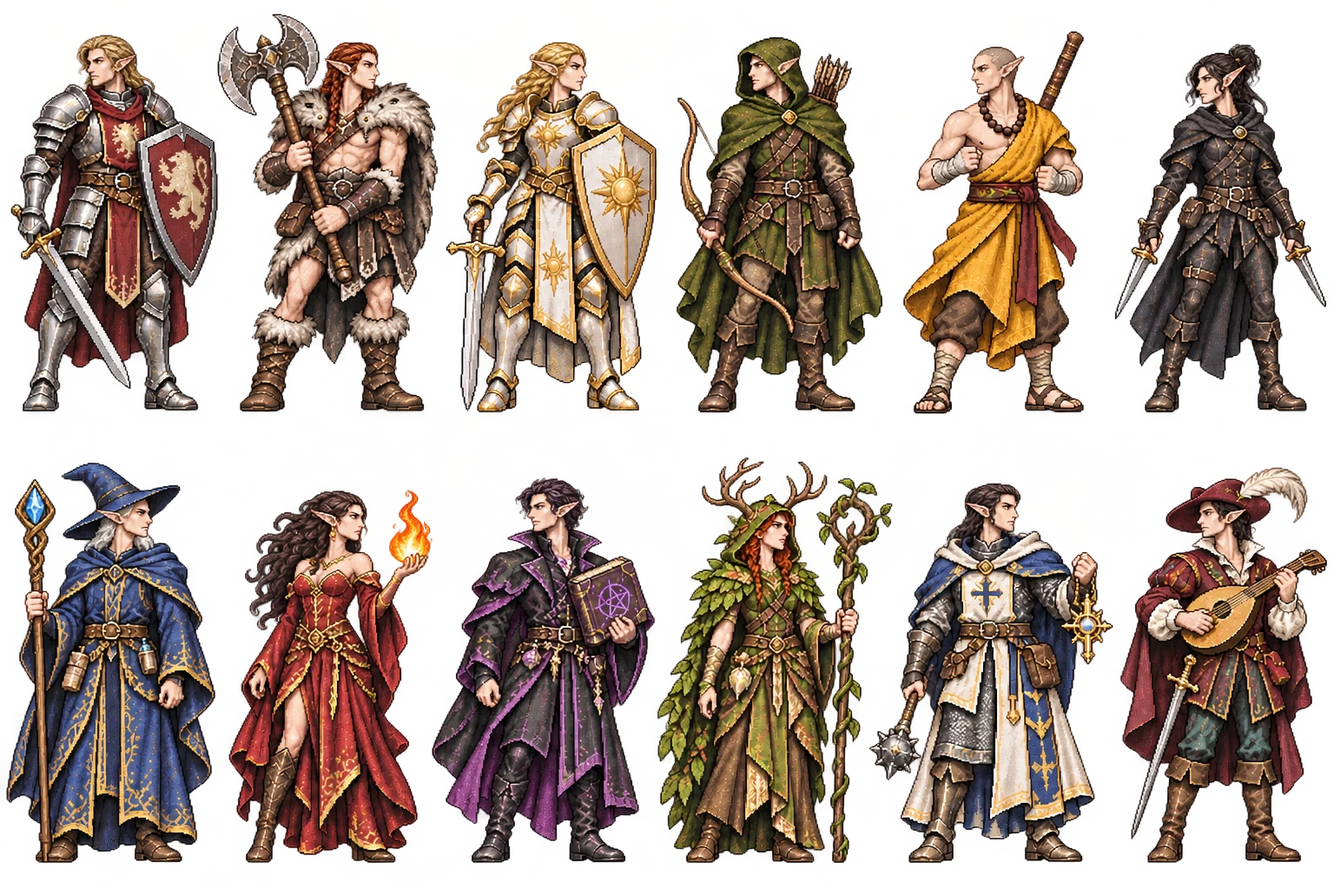
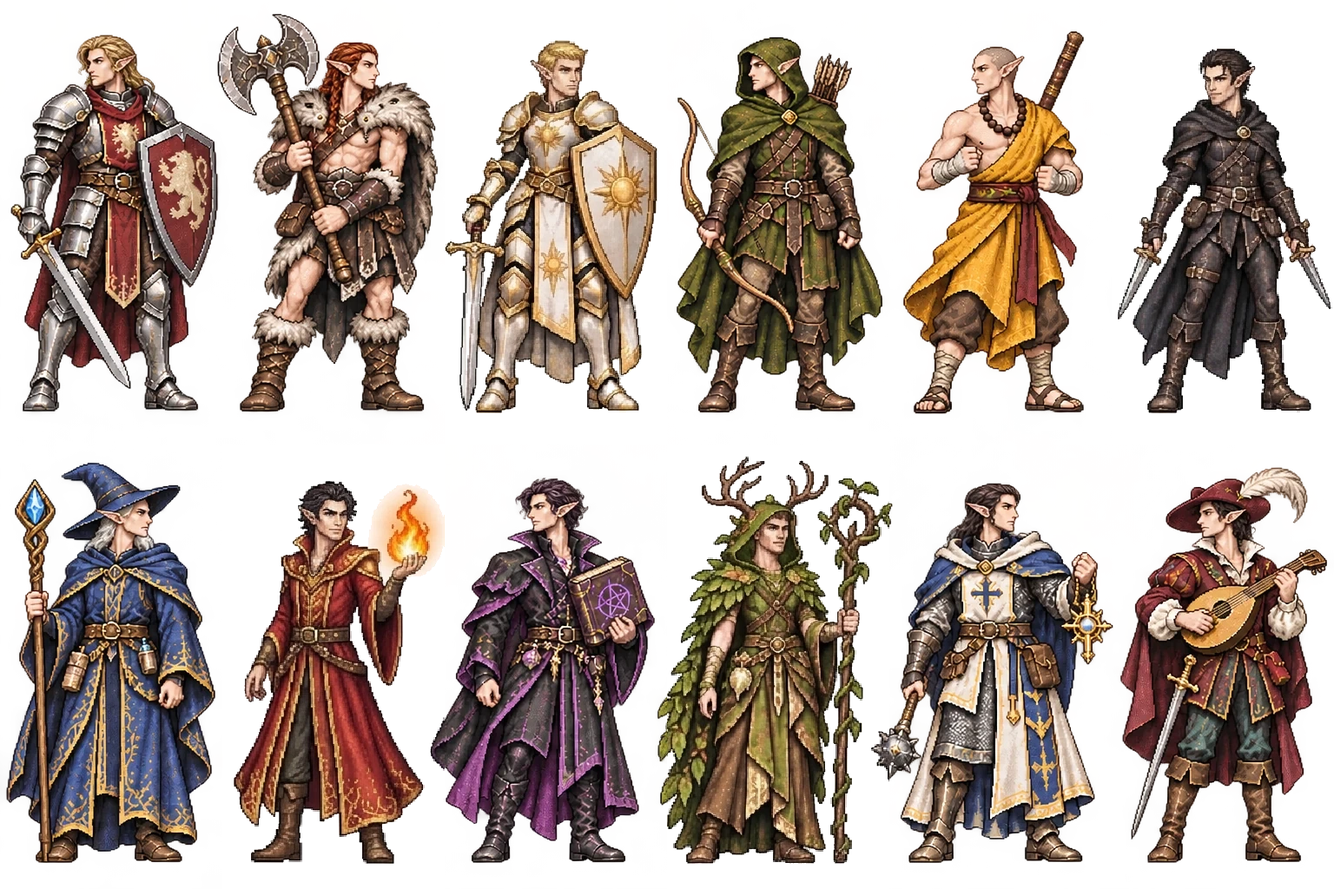
feat(segrete): all-male party sprites and XP boost potions in shop and drops

diff --git a/functions/segreteBundle.js b/functions/segreteBundle.js
@@ -53,6 +53,7 @@ __export(segreteServer_exports, {
   currentWeekKey: () => currentWeekKey,
   dailyLimit: () => dailyLimit,
   diffOf: () => diffOf,
+  drinkXpPotion: () => drinkXpPotion,
   flee: () => flee,
   giftsToday: () => giftsToday,
   hasRace: () => hasRace,
@@ -330,7 +331,7 @@ var KITS = {
     pool: [
       { id: "punizione", useWeapon: true, name: "Punizione Divina", icon: "\u26A1", kind: "weapon", dice: "1d8", dmg: "slashing", rider: "2d8", riderDmg: "radiant", min: 1, uses: 2, riderGrow: true, info: "danno normale dell'arma + danno radioso" },
       { id: "benedizione", name: "Benedizione", icon: "\u2728", kind: "buff", buff: "adv", turns: 2, allParty: true, min: 1, uses: 1 },
-      { id: "cura_p", name: "Cura Ferite", icon: "\u{1F49A}", kind: "heal", healPool: true, min: 3, info: "Cura a scelta \xB7 riserva condivisa" },
+      { id: "cura_p", name: "Cura Ferite", icon: "\u{1F49A}", kind: "heal", dice: "1d8", plusMod: 2, min: 3, uses: 2, info: "Cura 1d8 + 2\xD7CAR" },
       { id: "aura", name: "Aura di Protezione", icon: "\u{1F31F}", kind: "buff", buff: "ac", value: 2, turns: 3, allParty: true, min: 6, uses: 1 },
       { id: "accecante", useWeapon: true, name: "Punizione Accecante", icon: "\u2600", kind: "weapon", dice: "1d8", dmg: "slashing", rider: "3d8", riderDmg: "radiant", riderDis: 2, min: 9, uses: 1, info: "e il nemico a svantaggio" },
       { id: "sacra", name: "Arma Sacra", icon: "\u{1F5E1}", kind: "buff", buff: "dmg", value: 5, turns: 3, self: true, min: 12, uses: 1 }
@@ -944,6 +945,9 @@ var BASE_ITEMS = {
   panacea: { name: "Panacea", icon: "\u2728", kind: "panacea", price: 150, daily: 1, rarity: "rare", desc: "Te o un alleato: toglie tutti gli stati, anche \u{1F5FF}" },
   pelle_pietra: { name: "Pozione di Pelle di Pietra", icon: "\u{1FAA8}", kind: "buff", buff: "ac", value: 2, turns: 3, price: 90, daily: 1, rarity: "uncommon", desc: "\u{1F6E1} +2 CA \xB7 3 round \xB7 te o un alleato" },
   eroismo: { name: "Pozione dell'Eroismo", icon: "\u{1F9B8}", kind: "buff", buff: "adv", turns: 2, price: 100, daily: 1, rarity: "uncommon", desc: "\u{1F3AF} vantaggio \xB7 2 round \xB7 te o un alleato" },
+  pozione_exp_5: { name: "Pozione della Saggezza (+5% PE)", icon: "\u{1F4D8}", kind: "xp_boost", xpPct: 5, xpRuns: 2, price: 60, daily: 2, rarity: "common", desc: "\u2B50 +5% PE per 2 dungeon vinti" },
+  pozione_exp_10: { name: "Pozione dell'Esperienza (+10% PE)", icon: "\u{1F4D7}", kind: "xp_boost", xpPct: 10, xpRuns: 2, price: 130, daily: 1, rarity: "uncommon", desc: "\u2B50 +10% PE per 2 dungeon vinti" },
+  pozione_exp_20: { name: "Elisir del Sapere (+20% PE)", icon: "\u{1F4D9}", kind: "xp_boost", xpPct: 20, xpRuns: 2, price: 250, daily: 1, rarity: "rare", desc: "\u2B50 +20% PE per 2 dungeon vinti" },
   fuoco_alch: { name: "Fuoco dell'Alchimista", icon: "\u{1F525}", kind: "throw", dice: "2d6", dmg: "fire", price: 50, daily: 2, rarity: "common", desc: "\u{1F525} 2d6 fuoco \xB7 colpisce sempre" },
   acido: { name: "Fiala d'Acido", icon: "\u{1FAD9}", kind: "throw", dice: "2d6", dmg: "acid", price: 50, daily: 2, rarity: "common", desc: "\u{1F9EA} 2d6 acido \xB7 colpisce sempre" },
   acqua_santa: { name: "Acqua Santa", icon: "\u{1F4A7}", kind: "throw", dice: "2d8", dmg: "radiant", price: 80, daily: 1, rarity: "uncommon", desc: "\u2728 2d8 radiosi \xB7 colpisce sempre" },
@@ -1168,6 +1172,22 @@ function sellBagItem(charData, itemId, quantity = 1) {
   if (!Number.isSafeInteger(coins)) throw new Error("Saldo non valido.");
   return { patch: { storyBag: bag, storyCoins: coins }, earned, qty, unitPrice, name: item.name };
 }
+function drinkXpPotion(charData, itemId) {
+  if (!Object.hasOwn(ITEMS, itemId)) throw new Error("Oggetto sconosciuto.");
+  const item = itemOf(itemId);
+  if (item?.kind !== "xp_boost") throw new Error("Questo oggetto non \xE8 una pozione di esperienza.");
+  const bag = { ...charData?.storyBag || {} };
+  const owned = Object.hasOwn(bag, itemId) ? Number(bag[itemId]) : 0;
+  if (!Number.isSafeInteger(owned) || owned < 1) throw new Error("Non hai questa pozione nello zaino.");
+  if (owned === 1) delete bag[itemId];
+  else bag[itemId] = owned - 1;
+  const pct2 = Math.max(1, Number(item.xpPct) || 5);
+  const runs = Math.max(1, Number(item.xpRuns) || 2);
+  const prev = charData?.storyXpBoost;
+  const nextRuns = prev?.runs > 0 && Number(prev.pct) === pct2 ? Number(prev.runs) + runs : runs;
+  const boost = { pct: pct2, runs: nextRuns, name: item.name, icon: item.icon || "\u2B50", itemId };
+  return { patch: { storyBag: bag, storyXpBoost: boost }, boost, name: item.name };
+}
 var bagOf = (charData) => {
   const b = charData?.storyBag || {};
   const out = {};
@@ -1239,6 +1259,7 @@ var ITEM_KINDS = {
   cleanse_party: { it: "Purifica il gruppo", icon: "\u{1F4A7}" },
   panacea: { it: "Panacea (tutti gli stati)", icon: "\u2728" },
   buff: { it: "Potenziamento", icon: "\u{1F9B8}" },
+  xp_boost: { it: "Bonus PE", icon: "\u2B50" },
   throw: { it: "Da lancio (un nemico)", icon: "\u{1F525}" },
   throw_area: { it: "Da lancio (tutti i nemici)", icon: "\u{1F4A5}" }
 };
@@ -1304,6 +1325,9 @@ function normalizeCustomItem(d = {}) {
     it.buff = d.buff === "adv" ? "adv" : "ac";
     if (it.buff === "ac") it.value = num(d.value, 1, 5, 2);
     it.turns = num(d.turns, 1, 5, 2);
+  } else if (kind === "xp_boost") {
+    it.xpPct = num(d.xpPct, 1, 100, 10);
+    it.xpRuns = num(d.xpRuns, 1, 10, 2);
   } else if (kind === "throw") {
     it.dice = dice(d.dice, "2d6");
     it.dmg = dmgK(d.dmg);
@@ -2081,7 +2105,7 @@ function newRun({ room, heroes, bestiary, dungeon, now }) {
       h.compHp = x;
     }
     if (h.cls === "paladin") {
-      h.healingPoolMax = h.maxHp + h.level;
+      h.healingPoolMax = h.maxHp + h.level * 2;
       h.healingPool = h.healingPoolMax;
     }
   });
@@ -2215,7 +2239,7 @@ var advTag = (r) => r.adv ? " (vantaggio)" : r.dis ? " (svantaggio)" : "";
 var dmgBonusOf = (s, c) => (fxOn(s, c.fx.dmg) ? c.fx.dmg.v : 0) + (fxOn(s, c.fx.rage) ? c.fx.rage.v : 0);
 var downTxt = (t) => t.hp <= 0 ? t.side === "f" ? ` \u{1F480} ${t.name} cade!` : ` \u{1F480} ${t.name} \xE8 a terra!` : "";
 function healingPoolOf(h) {
-  const max = Math.max(0, Math.floor(h.healingPoolMax ?? h.maxHp + h.level));
+  const max = Math.max(0, Math.floor(h.healingPoolMax ?? h.maxHp + h.level * 2));
   return { max, left: Math.max(0, Math.min(max, Math.floor(h.healingPool ?? max))) };
 }
 function heroActionList(h) {
@@ -2417,7 +2441,7 @@ function heroAct(s, h, a, target, amount) {
       if (a.flat) amt = flatOf(a.flat);
       else {
         const [dn, ds] = diceFor(a, lv);
-        amt = roll(dn, ds).t + (a.plusMod ? healMod : 0) + (a.plusLevel ? lv : 0);
+        amt = roll(dn, ds).t + (a.plusMod ? healMod * (typeof a.plusMod === "number" ? a.plusMod : 1) : 0) + (a.plusLevel ? lv : 0);
       }
       amt += sHeal;
       const before = t.hp;
@@ -2961,6 +2985,15 @@ function useItem(s, uid, { itemId, targetId }, now) {
     if (it.buff === "ac") target.fx.ac = [...(target.fx.ac || []).filter((e) => fxOn(s, e)), { v: it.value, until }];
     if (it.buff === "adv") target.fx.adv = until;
     log(s, `${it.icon} ${h.name} usa ${it.name}${on}: ${it.buff === "ac" ? `+${it.value} CA` : "vantaggio agli attacchi"} per ${it.turns} round.`, { kind: "buff", actor: h.id, targets: [target.id] });
+  } else if (it.kind === "xp_boost") {
+    curVfx = { fx: "buff", el: "radiant", from: h.id };
+    const tUid = target?.uid || uid;
+    const pct2 = Math.max(1, Number(it.xpPct) || 5);
+    const addRuns = Math.max(1, Number(it.xpRuns) || 2);
+    const prev = s.xpBoosts?.[tUid];
+    const runs = (prev?.pct === pct2 ? Number(prev.runs) || 0 : 0) + addRuns;
+    s.xpBoosts = { ...s.xpBoosts || {}, [tUid]: { pct: pct2, runs, name: it.name, icon: it.icon || "\u2B50", itemId } };
+    log(s, `${it.icon} ${h.name} usa ${it.name}${on}: \u2B50 +${pct2}% PE per ${runs} dungeon vinti!`, { kind: "buff", actor: h.id, targets: [target.id] });
   } else if (it.kind === "throw") {
     curVfx = { fx: "lob", el: elOf(it.dmg), from: h.id };
     const [n, sd] = parseDice(it.dice);
@@ -3023,8 +3056,8 @@ function nextFloor(s, bestiary, now) {
 }
 var MIMIC_CHANCE = 0.1;
 var CHEST_AUTO_MS = 90 * 1e3;
-var CHEST_BASIC = ["pozione", "pozione", "pozione", "pozione_magg", "tonico", "fuoco_alch", "acido", "acqua_santa", "bomba_acqua", "pelle_pietra"];
-var CHEST_RARE = ["pozione_sup", "piuma_fenice", "panacea", "eroismo"];
+var CHEST_BASIC = ["pozione", "pozione", "pozione", "pozione_magg", "tonico", "fuoco_alch", "acido", "acqua_santa", "bomba_acqua", "pelle_pietra", "pozione_exp_5", "pozione_exp_10"];
+var CHEST_RARE = ["pozione_sup", "piuma_fenice", "panacea", "eroismo", "pozione_exp_20"];
 var CHEST_RARE_CHANCE = 0.04;
 function openChest(s, uid, now, mimicSource = MIMIC_MONSTER) {
   if (s.status !== "treasure") throw new Error("Qui non c'\xE8 nessuno scrigno da aprire.");
@@ -3204,6 +3237,7 @@ Set \xAB${set.name}\xBB (${set.size || "?"} pezzi)${bonus ? ` \u2014 ${bonus}` :
   currentWeekKey,
   dailyLimit,
   diffOf,
+  drinkXpPotion,
   flee,
   giftsToday,
   hasRace,

diff --git a/src/pages/SegreteShop.jsx b/src/pages/SegreteShop.jsx
@@ -25,6 +25,7 @@ const CATEGORIES = [
   { key: "cure", label: "❤ Cure e rianimazione", kinds: ["heal", "revive"] },
   { key: "purif", label: "🌿 Purificanti", kinds: ["cleanse", "cleanse_party", "panacea"] },
   { key: "buff", label: "🛡 Potenziamenti", kinds: ["buff"] },
+  { key: "xp", label: "⭐ Esperienza", kinds: ["xp_boost"] },
   { key: "throw", label: "🔥 Da lancio", kinds: ["throw", "throw_area"] },
   { key: "weapon", label: "⚔ Armi", kinds: ["weapon"] },
   { key: "armor", label: "🧥 Armature", kinds: ["armor"] },
@@ -38,7 +39,7 @@ function groupByCat(ids) {
   return out.filter((g) => g.ids.length);
 }
 
-export function ItemRow({ id, n, onBuy, onSell, onGift, onEquip, busy, coins, charData }) {
+export function ItemRow({ id, n, onBuy, onSell, onGift, onEquip, onUseXp, busy, coins, charData }) {
   const it = itemOf(id);
   const r = RARITY[it.rarity];
   return (
@@ -49,6 +50,7 @@ export function ItemRow({ id, n, onBuy, onSell, onGift, onEquip, busy, coins, ch
         <small>{it.fx ? `${fxLine(it.fx)} · ` : ""}{it.desc}{isGear(it) ? ` · ${usersOf(it)}` : ""}</small>
       </span>
       {n != null && <span className="sgs-n">×{n}</span>}
+      {onUseXp && it.kind === "xp_boost" && <button type="button" className="sgr-btn sgs-gift" disabled={busy} onClick={() => onUseXp(id)}>🧪 Bevi (+{it.xpPct}% PE)</button>}
       {onEquip && isGear(it) && <button type="button" className="sgr-btn sgs-gift" disabled={busy} onClick={() => onEquip(id)}>🛡 Equipaggia</button>}
       {onGift && <button type="button" className="sgr-btn sgr-btn--ghost sgs-gift" disabled={busy} onClick={() => onGift(id)}>🎁 Regala</button>}
       {onSell && <span className="sgs-buy">
@@ -197,6 +199,15 @@ export default function SegreteShop({ charData, view = "zaino", uid }) {
     } catch (e) { setMsg(e.message || "Vendita non riuscita."); }
     finally { setBusy(false); }
   };
+  const useXp = async (id) => {
+    if (busy) return;
+    setBusy(true); setMsg("");
+    try {
+      const result = await segreteDo({ op: "useXpPotion", itemId: id });
+      setMsg(`⭐ Bevuta ${result.name}: +${result.boost.pct}% PE per ${result.boost.runs} dungeon vinti!`);
+    } catch (e) { setMsg(e.message || "Uso non riuscito."); }
+    finally { setBusy(false); }
+  };
   const myBases = new Set(Object.keys(charData?.storyChars || {}).flatMap((c) => WEAPON_CHOICES[c] || []));
   const shop = SHOP_ITEMS.filter((id) => !isGear(ITEMS[id]));
   const myClasses = Object.keys(charData?.storyChars || {});
@@ -212,6 +223,11 @@ export default function SegreteShop({ charData, view = "zaino", uid }) {
         ? "Lo zaino è unico per tutti i tuoi eroi."
         : `Si paga in ${COIN_NAME}: 1d${FLOOR_COINS_DIE} a ogni eroe per sala vinta, più quelle che lasciano i mostri (si portano a casa solo se il gruppo vince). Ogni oggetto ha un limite di acquisti al giorno.`}</p>
       <IconLegend />
+      {charData?.storyXpBoost?.runs > 0 && (
+        <p className="sgr-hint" style={{ color: "#ffd76a", fontWeight: 700 }}>
+          {charData.storyXpBoost.icon || "⭐"} Bonus PE attivo: +{charData.storyXpBoost.pct}% PE per {charData.storyXpBoost.runs === 1 ? "il prossimo dungeon vinto" : `i prossimi ${charData.storyXpBoost.runs} dungeon vinti`} ({charData.storyXpBoost.name}).
+        </p>
+      )}
       {msg && <p className="sgr-hint" role="status">{msg}</p>}
       {tab !== "zaino" && <div className="sgs-tabs" role="group" aria-label="Operazione in Bottega">
         <button type="button" className={`sgr-btn${shopMode === "buy" ? " is-on" : ""}`} aria-pressed={shopMode === "buy"} onClick={() => { setShopMode("buy"); setCategory("all"); }}>Compra</button>
@@ -232,7 +248,7 @@ export default function SegreteShop({ charData, view = "zaino", uid }) {
           <p className="sgr-label">{g.label} <small>({g.ids.reduce((t, id) => t + (bag[id] || 0), 0)})</small></p>
           <ul className="sgs-list">{g.ids.map((id) => (
             <li key={id} className="sgs-wrap">
-              <ul className="sgs-list sgs-list--one"><ItemRow id={id} n={bag[id]} onGift={(x) => { setEquip(null); setGift(gift === x ? null : x); }} onEquip={(x) => { setGift(null); setEquip(equip === x ? null : x); }} busy={busy} /></ul>
+              <ul className="sgs-list sgs-list--one"><ItemRow id={id} n={bag[id]} onUseXp={useXp} onGift={(x) => { setEquip(null); setGift(gift === x ? null : x); }} onEquip={(x) => { setGift(null); setEquip(equip === x ? null : x); }} busy={busy} /></ul>
               {equip === id && <EquipBox id={id} charData={charData} busy={busy} onEquip={doEquip} onClose={() => setEquip(null)} />}
               {gift === id && <GiftBox id={id} uid={uid} charData={charData} busy={busy} onSend={sendGift} onClose={() => setGift(null)} />}
             </li>

diff --git a/src/data/segreteItems.js b/src/data/segreteItems.js
@@ -38,6 +38,9 @@ const BASE_ITEMS = {
   panacea: { name: "Panacea", icon: "✨", kind: "panacea", price: 150, daily: 1, rarity: "rare", desc: "Te o un alleato: toglie tutti gli stati, anche 🗿" },
   pelle_pietra: { name: "Pozione di Pelle di Pietra", icon: "🪨", kind: "buff", buff: "ac", value: 2, turns: 3, price: 90, daily: 1, rarity: "uncommon", desc: "🛡 +2 CA · 3 round · te o un alleato" },
   eroismo: { name: "Pozione dell'Eroismo", icon: "🦸", kind: "buff", buff: "adv", turns: 2, price: 100, daily: 1, rarity: "uncommon", desc: "🎯 vantaggio · 2 round · te o un alleato" },
+  pozione_exp_5: { name: "Pozione della Saggezza (+5% PE)", icon: "📘", kind: "xp_boost", xpPct: 5, xpRuns: 2, price: 60, daily: 2, rarity: "common", desc: "⭐ +5% PE per 2 dungeon vinti" },
+  pozione_exp_10: { name: "Pozione dell'Esperienza (+10% PE)", icon: "📗", kind: "xp_boost", xpPct: 10, xpRuns: 2, price: 130, daily: 1, rarity: "uncommon", desc: "⭐ +10% PE per 2 dungeon vinti" },
+  pozione_exp_20: { name: "Elisir del Sapere (+20% PE)", icon: "📙", kind: "xp_boost", xpPct: 20, xpRuns: 2, price: 250, daily: 1, rarity: "rare", desc: "⭐ +20% PE per 2 dungeon vinti" },
   fuoco_alch: { name: "Fuoco dell'Alchimista", icon: "🔥", kind: "throw", dice: "2d6", dmg: "fire", price: 50, daily: 2, rarity: "common", desc: "🔥 2d6 fuoco · colpisce sempre" },
   acido: { name: "Fiala d'Acido", icon: "🫙", kind: "throw", dice: "2d6", dmg: "acid", price: 50, daily: 2, rarity: "common", desc: "🧪 2d6 acido · colpisce sempre" },
   acqua_santa: { name: "Acqua Santa", icon: "💧", kind: "throw", dice: "2d8", dmg: "radiant", price: 80, daily: 1, rarity: "uncommon", desc: "✨ 2d8 radiosi · colpisce sempre" },
@@ -185,6 +188,22 @@ export function sellBagItem(charData, itemId, quantity = 1) {
   if (!Number.isSafeInteger(coins)) throw new Error("Saldo non valido.");
   return { patch: { storyBag: bag, storyCoins: coins }, earned, qty, unitPrice, name: item.name };
 }
+export function drinkXpPotion(charData, itemId) {
+  if (!Object.hasOwn(ITEMS, itemId)) throw new Error("Oggetto sconosciuto.");
+  const item = itemOf(itemId);
+  if (item?.kind !== "xp_boost") throw new Error("Questo oggetto non è una pozione di esperienza.");
+  const bag = { ...(charData?.storyBag || {}) };
+  const owned = Object.hasOwn(bag, itemId) ? Number(bag[itemId]) : 0;
+  if (!Number.isSafeInteger(owned) || owned < 1) throw new Error("Non hai questa pozione nello zaino.");
+  if (owned === 1) delete bag[itemId];
+  else bag[itemId] = owned - 1;
+  const pct = Math.max(1, Number(item.xpPct) || 5);
+  const runs = Math.max(1, Number(item.xpRuns) || 2);
+  const prev = charData?.storyXpBoost;
+  const nextRuns = prev?.runs > 0 && Number(prev.pct) === pct ? Number(prev.runs) + runs : runs;
+  const boost = { pct, runs: nextRuns, name: item.name, icon: item.icon || "⭐", itemId };
+  return { patch: { storyBag: bag, storyXpBoost: boost }, boost, name: item.name };
+}
 export const bagOf = (charData) => {
   const b = charData?.storyBag || {};
   const out = {};
@@ -281,6 +300,7 @@ export const ITEM_KINDS = {
   cleanse_party: { it: "Purifica il gruppo", icon: "💧" },
   panacea: { it: "Panacea (tutti gli stati)", icon: "✨" },
   buff: { it: "Potenziamento", icon: "🦸" },
+  xp_boost: { it: "Bonus PE", icon: "⭐" },
   throw: { it: "Da lancio (un nemico)", icon: "🔥" },
   throw_area: { it: "Da lancio (tutti i nemici)", icon: "💥" },
 };
@@ -323,6 +343,7 @@ export function normalizeCustomItem(d = {}) {
   } else if (kind === "heal") { it.dice = dice(d.dice, "2d4"); it.flat = num(d.flat, 0, 50, 0); }
   else if (kind === "revive") it.pct = num(d.pct, 10, 100, 50);
   else if (kind === "buff") { it.buff = d.buff === "adv" ? "adv" : "ac"; if (it.buff === "ac") it.value = num(d.value, 1, 5, 2); it.turns = num(d.turns, 1, 5, 2); }
+  else if (kind === "xp_boost") { it.xpPct = num(d.xpPct, 1, 100, 10); it.xpRuns = num(d.xpRuns, 1, 10, 2); }
   else if (kind === "throw") { it.dice = dice(d.dice, "2d6"); it.dmg = dmgK(d.dmg); }
   else if (kind === "throw_area") { it.dice = dice(d.dice, "2d6"); it.dmg = dmgK(d.dmg); it.save = ["str", "dex", "con", "int", "wis", "cha"].includes(d.save) ? d.save : "dex"; it.dc = num(d.dc, 8, 22, 13); }
   return it;

diff --git a/src/data/segreteEngine.js b/src/data/segreteEngine.js
@@ -353,7 +353,7 @@ export function newRun({ room, heroes, bestiary, dungeon, now }) {
     if (C.save) h.save += C.save;
     if (C.hit) h.compHit = C.hit;
     if (C.hp) { const x = Math.round(h.maxHp * C.hp); h.maxHp += x; h.hp += x; h.compHp = x; }
-    if (h.cls === "paladin") { h.healingPoolMax = h.maxHp + h.level; h.healingPool = h.healingPoolMax; }
+    if (h.cls === "paladin") { h.healingPoolMax = h.maxHp + h.level * 2; h.healingPool = h.healingPoolMax; }
   });
   if (s.party > 1) log(s, `🤝 Compagnia ×${s.party}: ${companyLinesTxt(s.party)}.`, { kind: "info" });
   if (s.dungeonRules.key !== "neutro") log(s, `${s.dungeonRules.name}: ${s.dungeonRules.desc} Premi: PE ×${s.dungeonRules.xp}, Monete Antiche ×${s.dungeonRules.coins}.`, { kind: "info" });
@@ -462,7 +462,7 @@ const downTxt = (t) => (t.hp <= 0 ? (t.side === "f" ? ` 💀 ${t.name} cade!` : 
 
 /* ── azioni degli eroi ───────────────────────────────── */
 export function healingPoolOf(h) {
-  const max = Math.max(0, Math.floor(h.healingPoolMax ?? (h.maxHp + h.level)));
+  const max = Math.max(0, Math.floor(h.healingPoolMax ?? (h.maxHp + h.level * 2)));
   return { max, left: Math.max(0, Math.min(max, Math.floor(h.healingPool ?? max))) };
 }
 export function heroActionList(h) {
@@ -638,7 +638,7 @@ function heroAct(s, h, a, target, amount) {
     const parts = tg.map((t) => {
       let amt;
       if (a.flat) amt = flatOf(a.flat);
-      else { const [dn, ds] = diceFor(a, lv); amt = roll(dn, ds).t + (a.plusMod ? healMod : 0) + (a.plusLevel ? lv : 0); }
+      else { const [dn, ds] = diceFor(a, lv); amt = roll(dn, ds).t + (a.plusMod ? healMod * (typeof a.plusMod === "number" ? a.plusMod : 1) : 0) + (a.plusLevel ? lv : 0); }
       amt += sHeal;
       const before = t.hp;
       t.hp = Math.min(t.maxHp, t.hp + amt);
@@ -1159,6 +1159,15 @@ export function useItem(s, uid, { itemId, targetId }, now) {
     if (it.buff === "ac") target.fx.ac = [...(target.fx.ac || []).filter((e) => fxOn(s, e)), { v: it.value, until }];
     if (it.buff === "adv") target.fx.adv = until;
     log(s, `${it.icon} ${h.name} usa ${it.name}${on}: ${it.buff === "ac" ? `+${it.value} CA` : "vantaggio agli attacchi"} per ${it.turns} round.`, { kind: "buff", actor: h.id, targets: [target.id] });
+  } else if (it.kind === "xp_boost") {
+    curVfx = { fx: "buff", el: "radiant", from: h.id };
+    const tUid = target?.uid || uid;
+    const pct = Math.max(1, Number(it.xpPct) || 5);
+    const addRuns = Math.max(1, Number(it.xpRuns) || 2);
+    const prev = s.xpBoosts?.[tUid];
+    const runs = (prev?.pct === pct ? (Number(prev.runs) || 0) : 0) + addRuns;
+    s.xpBoosts = { ...(s.xpBoosts || {}), [tUid]: { pct, runs, name: it.name, icon: it.icon || "⭐", itemId } };
+    log(s, `${it.icon} ${h.name} usa ${it.name}${on}: ⭐ +${pct}% PE per ${runs} dungeon vinti!`, { kind: "buff", actor: h.id, targets: [target.id] });
   } else if (it.kind === "throw") {
     curVfx = { fx: "lob", el: elOf(it.dmg), from: h.id };
     const [n, sd] = parseDice(it.dice);
@@ -1222,8 +1231,8 @@ export function nextFloor(s, bestiary, now) {
    Va tutto nel bottino (spoils), che il server consegna alla vittoria come il resto. */
 export const MIMIC_CHANCE = 0.10;
 export const CHEST_AUTO_MS = 90 * 1000;
-export const CHEST_BASIC = ["pozione", "pozione", "pozione", "pozione_magg", "tonico", "fuoco_alch", "acido", "acqua_santa", "bomba_acqua", "pelle_pietra"];
-export const CHEST_RARE = ["pozione_sup", "piuma_fenice", "panacea", "eroismo"];
+export const CHEST_BASIC = ["pozione", "pozione", "pozione", "pozione_magg", "tonico", "fuoco_alch", "acido", "acqua_santa", "bomba_acqua", "pelle_pietra", "pozione_exp_5", "pozione_exp_10"];
+export const CHEST_RARE = ["pozione_sup", "piuma_fenice", "panacea", "eroismo", "pozione_exp_20"];
 export const CHEST_RARE_CHANCE = 0.04; // per la difficoltà si moltiplica per il "chest" (Leggenda 6%)
 export function openChest(s, uid, now, mimicSource = MIMIC_MONSTER) {
   if (s.status !== "treasure") throw new Error("Qui non c'è nessuno scrigno da aprire.");

diff --git a/functions/index.js b/functions/index.js
@@ -2034,6 +2034,22 @@ exports.segreteDo = onCall(
         throw new HttpsError("failed-precondition", e?.message || "Vendita non riuscita.");
       }
     }
+    // Pozioni di esperienza: bevute dallo zaino attivano un bonus % PE per i prossimi N dungeon vinti.
+    if (op === "useXpPotion") {
+      const itemId = String(request.data?.itemId || "");
+      const ref = db.collection("characters").doc(uid);
+      try {
+        return await db.runTransaction(async (tx) => {
+          const cs = await tx.get(ref);
+          if (!cs.exists) throw new Error("Scheda del personaggio non trovata.");
+          const used = segreteBundle.drinkXpPotion(cs.data(), itemId);
+          tx.update(ref, used.patch);
+          return { ok: true, boost: used.boost, name: used.name };
+        });
+      } catch (e) {
+        throw new HttpsError("failed-precondition", e?.message || "Impossibile usare la pozione.");
+      }
+    }
     // ── Regalo di un oggetto dello zaino a un altro giocatore (2026-11-05): costa GIFT_FEE Monete,
     //    massimo GIFT_DAILY al giorno; al destinatario arriva una notifica ──
     if (op === "giftItem") {
@@ -2448,11 +2464,24 @@ exports.segreteDo = onCall(
               if (hero) {
                 // PE fissi per dungeon (2026-11-06); gli eroi vecchi passano alla scala nuova (xpv 2)
                 const from = segreteBundle.heroLevel(hero);
-                const gain = segreteBundle.xpGain(from, run.floors, run.diff, (run.heroes || []).length, run.dungeonRules);
+                const baseGain = segreteBundle.xpGain(from, run.floors, run.diff, (run.heroes || []).length, run.dungeonRules);
+                const charBoost = cs.data()?.storyXpBoost;
+                const runBoost = run.xpBoosts?.[h.uid];
+                const activeBoost = runBoost?.runs > 0
+                  ? (charBoost?.runs > 0 && Number(charBoost.pct) === Number(runBoost.pct)
+                    ? { ...runBoost, runs: Number(charBoost.runs) + Number(runBoost.runs) }
+                    : runBoost)
+                  : (charBoost?.runs > 0 ? charBoost : null);
+                const boostPct = activeBoost ? Math.max(0, Number(activeBoost.pct) || 0) : 0;
+                const gain = boostPct > 0 ? Math.round(baseGain * (1 + boostPct / 100)) : baseGain;
                 const xp = segreteBundle.heroXp(hero) + gain;
                 patch[`storyChars.${h.cls}.xp`] = xp;
                 patch[`storyChars.${h.cls}.xpv`] = segreteBundle.XP_VERSION;
-                run.levelUps.push({ uid: h.uid, name: h.name, cls: h.cls, xp: gain, from, to: segreteBundle.levelOfXp(xp) });
+                if (activeBoost) {
+                  const left = Math.max(0, (Number(activeBoost.runs) || 1) - 1);
+                  patch.storyXpBoost = left > 0 ? { ...activeBoost, runs: left } : admin.firestore.FieldValue.delete();
+                }
+                run.levelUps.push({ uid: h.uid, name: h.name, cls: h.cls, xp: gain, ...(boostPct > 0 ? { xpBoostPct: boostPct } : {}), from, to: segreteBundle.levelOfXp(xp) });
               }
               if (Object.keys(patch).length) tx.update(cs.ref, patch);
             }

diff --git a/src/data/segreteIcons.js b/src/data/segreteIcons.js
@@ -24,7 +24,7 @@ export const SG_ICONS = {
   item: {
     pozione: "health-potion", pozione_magg: "standing-potion", pozione_sup: "round-potion",
     tonico: "herbs-bundle", bomba_acqua: "water-splash", panacea: "magic-potion",
-    pelle_pietra: "stone-block", eroismo: "muscle-up", fuoco_alch: "fire-bomb", acido: "bubbling-flask",
+    pelle_pietra: "stone-block", eroismo: "muscle-up", pozione_exp_5: "standing-potion", pozione_exp_10: "round-potion", pozione_exp_20: "magic-potion", fuoco_alch: "fire-bomb", acido: "bubbling-flask",
     acqua_santa: "holy-water", pietra_tuono: "sparky-bomb", piuma_fenice: "feathered-wing",
     lingua_salamandra: "flame-claws", maglio_fabbro: "anvil-impact", zanna_vyrskaal: "ice-spear",
     lancia_pescatore: "harpoon-trident", spina_palude: "thorny-vine", falce_ragno: "spider-alt",
@@ -119,7 +119,7 @@ export const DMG_TONE = {
   necrotic: "#b48cff", radiant: "#fff1a8", force: "#ff7ad9", psychic: "#ff9fe0",
   slashing: "#e8dcc4", piercing: "#e8dcc4", bludgeoning: "#e8dcc4",
 };
-const KIND_TONE = { heal: "#6fe39a", heal_all: "#6fe39a", buff: "#ffcf5a", defend: "#b9c7d6", debuff: "#c58bff" };
+const KIND_TONE = { heal: "#6fe39a", heal_all: "#6fe39a", buff: "#ffcf5a", xp_boost: "#ffd76a", defend: "#b9c7d6", debuff: "#c58bff" };
 export function sgTone(a) {
   if (!a) return undefined;
   return DMG_TONE[a.dmg] || KIND_TONE[a.kind] || undefined;

diff --git a/src/utils/segreteRooms.js b/src/utils/segreteRooms.js
@@ -15,11 +15,6 @@ const FAKE_NPC_NAMES = [
   "Kaelen", "Thrain", "Bram", "Garrick", "Torvin", "Draven",
   "Sylas", "Aldric", "Varian", "Cedric", "Dorian", "Roderick",
 ];
-// Classi con sprite maschile nei fogli /assets/segrete/party/*.webp (esclude paladin, rogue, sorcerer, druid che nell'atlas attuale sono donne)
-const MALE_SPRITE_CLASSES = [
-  "fighter", "barbarian", "ranger", "monk",
-  "wizard", "warlock", "cleric", "bard",
-];
 
 const roomsCol = () => collection(db, "dungeon_rooms");
 
@@ -99,7 +94,7 @@ export const addFakeNpc = (roomId, byUid, isMaster = false) => editRoom(roomId, 
   const freeNames = FAKE_NPC_NAMES.filter((n) => !usedNames.has(n));
   const name = (freeNames.length ? freeNames : FAKE_NPC_NAMES)[Math.floor(Math.random() * (freeNames.length || FAKE_NPC_NAMES.length))];
 
-  const allClasses = MALE_SPRITE_CLASSES.filter((k) => STORY_CLASSES.some((c) => c.key === k));
+  const allClasses = STORY_CLASSES.map((c) => c.key);
   const freeClasses = allClasses.filter((k) => !usedClasses.has(k));
   const cls = (freeClasses.length ? freeClasses : allClasses)[Math.floor(Math.random() * (freeClasses.length || allClasses.length))];
 

diff --git a/src/data/segreteServer.js b/src/data/segreteServer.js
@@ -7,5 +7,5 @@ export { MAX_STORY_LEVEL, validRespec, RESPEC_COST, validNewHero, weaponChoices,
 export { currentWeekKey } from "./arenaWeek";
 export { wonItemInboxDoc } from "../utils/foundryMap";
 export { registerCustomItems, itemOf, isGear, battleItem, SHOP_ITEMS, bagOf, coinsOf, boughtToday, dailyLimit, romeDay, GIFT_FEE, GIFT_DAILY, giftsToday } from "./segreteItems";
-export { sellBagItem } from "./segreteItems";
+export { sellBagItem, drinkXpPotion } from "./segreteItems";
 export { RACES, RACE_CHANGE_COST, hasRace, chooseHeroRace } from "./segreteRaces";
